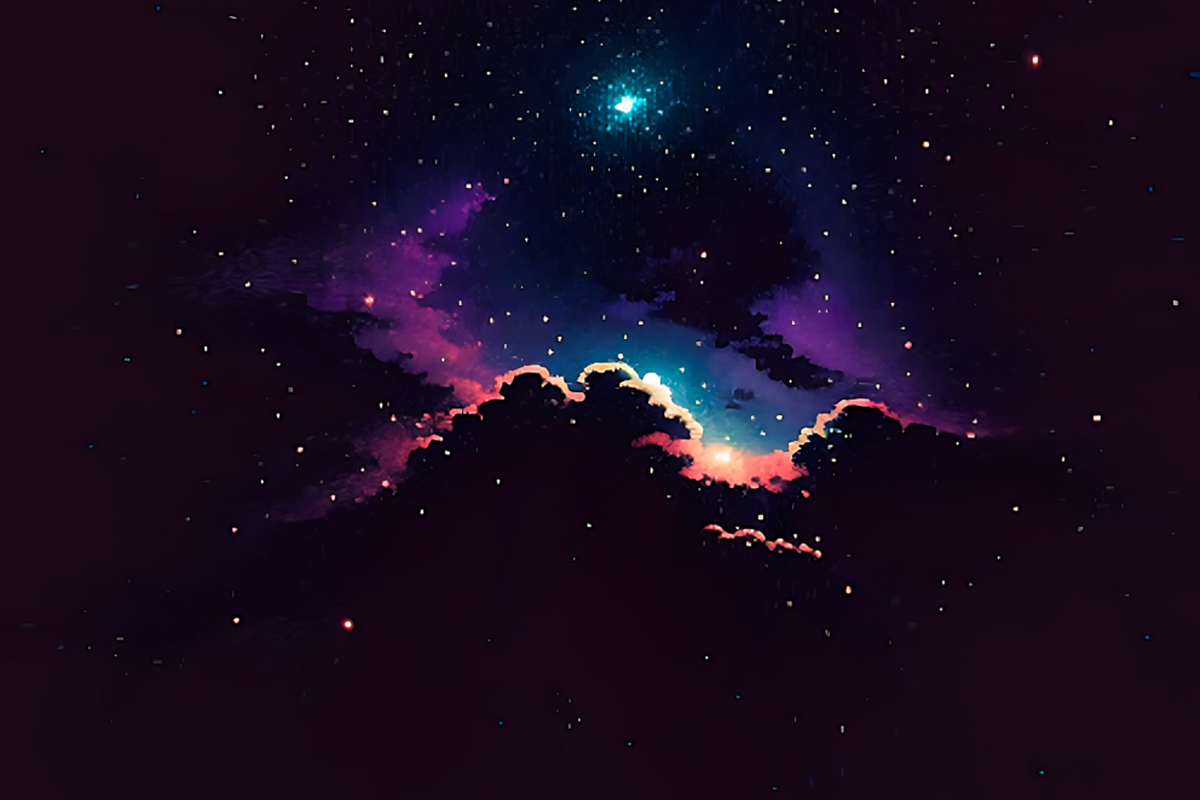
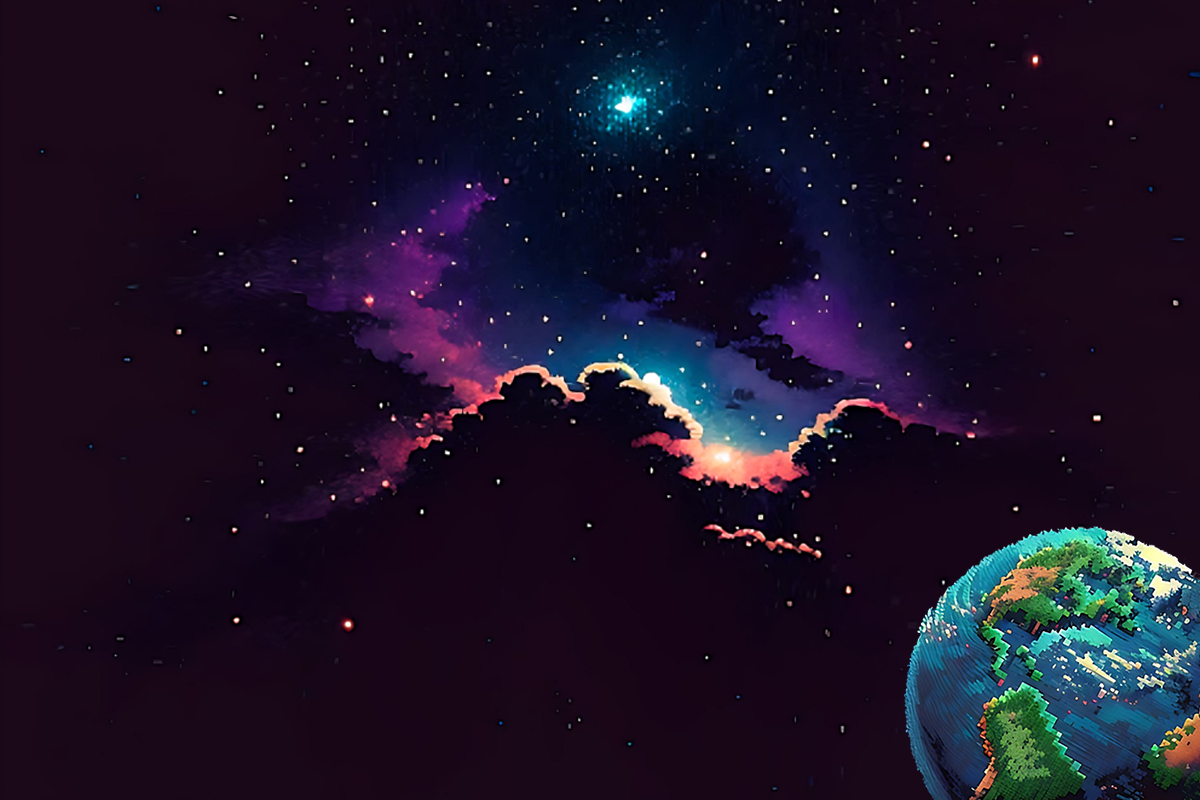
Добавлено движение корабля влево|вправо|вверх|вниз и изменён фон 1ого  уровня

Changed region(s): [[0.74, 0.6562, 1.0, 1.0]]

diff --git a/alien_invasion.py b/alien_invasion.py
@@ -23,6 +23,8 @@ class AlienInvansion():
         while True:
             # отслеживание событий клавиатуры и мыши
             self._check_events()
+            # вызываем метод перемещения корабля
+            self.ship.update()
             # метод для обновления экрана
             self._update_screen()
             clock.tick(FPS)
@@ -33,10 +35,30 @@ class AlienInvansion():
             if event.type == pygame.QUIT:
                 sys.exit()
 
+            # Обработка движения корабля влево и вправо
+            elif event.type == pygame.KEYDOWN:
+                if event.key == pygame.K_RIGHT:
+                    self.ship.moving_right = True
+                elif event.key == pygame.K_LEFT:
+                    self.ship.moving_left = True
+                elif event.key == pygame.K_UP:
+                    self.ship.moving_up = True
+                elif event.key == pygame.K_DOWN:
+                    self.ship.moving_down = True
+
+            elif event.type == pygame.KEYUP:
+                if event.key == pygame.K_RIGHT:
+                    self.ship.moving_right = False
+                elif event.key == pygame.K_LEFT:
+                    self.ship.moving_left = False
+                elif event.key == pygame.K_UP:
+                    self.ship.moving_up = False
+                elif event.key == pygame.K_DOWN:
+                    self.ship.moving_down = False
+
     def _update_screen(self):
         # устaнавливаем цвет фона
         self.screen.blit(self.settings.bg_color, (0, 0))
-
         self.ship.blitme()
         # отображение последнего прорисованного экрана
         pygame.display.flip()

diff --git a/my_ship.py b/my_ship.py
@@ -8,12 +8,27 @@ class Ship():
         '''Инициализирует корабль и задает его начальную позицию'''
         self.screen = ai_game.screen
         self.screen_rect = ai_game.screen.get_rect()
-
         # Загружает изображение корабля и получает прямоугольник
         self.image = pygame.image.load('images/dreadnought.png')
         self.rect = self.image.get_rect()
         # Каждый новый корабль появляется у нижнего края экрана
         self.rect.midbottom = self.screen_rect.midbottom
+
+        # атрибут для проверки движения корабля влево\право
+        self.moving_right, self.moving_left = False, False
+        self.moving_up, self.moving_down = False, False
+
+    def update(self):
+        '''метод для движения вправо'''
+        if self.moving_right:
+            self.rect.x += 3
+        elif self.moving_left:
+            self.rect.x -= 3
+        elif self.moving_up:
+            self.rect.y -= 3
+        elif self.moving_down:
+            self.rect.y += 3
+
 
     def blitme(self):
         '''Рисуем корабль в текущей позиции'''
